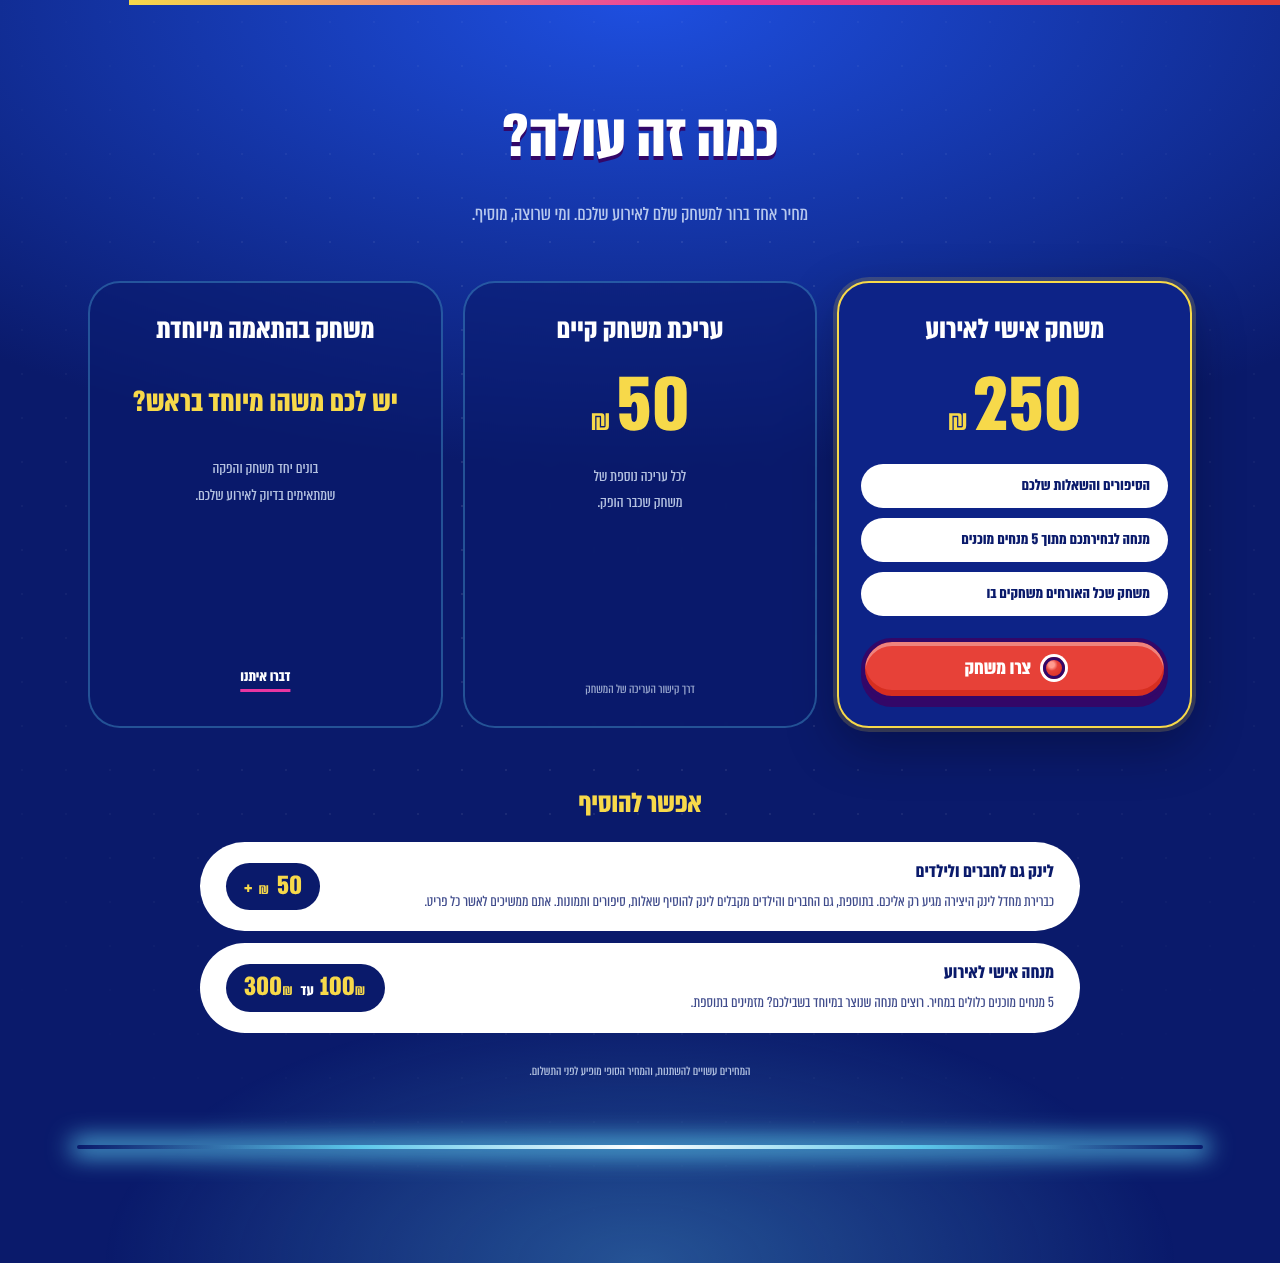
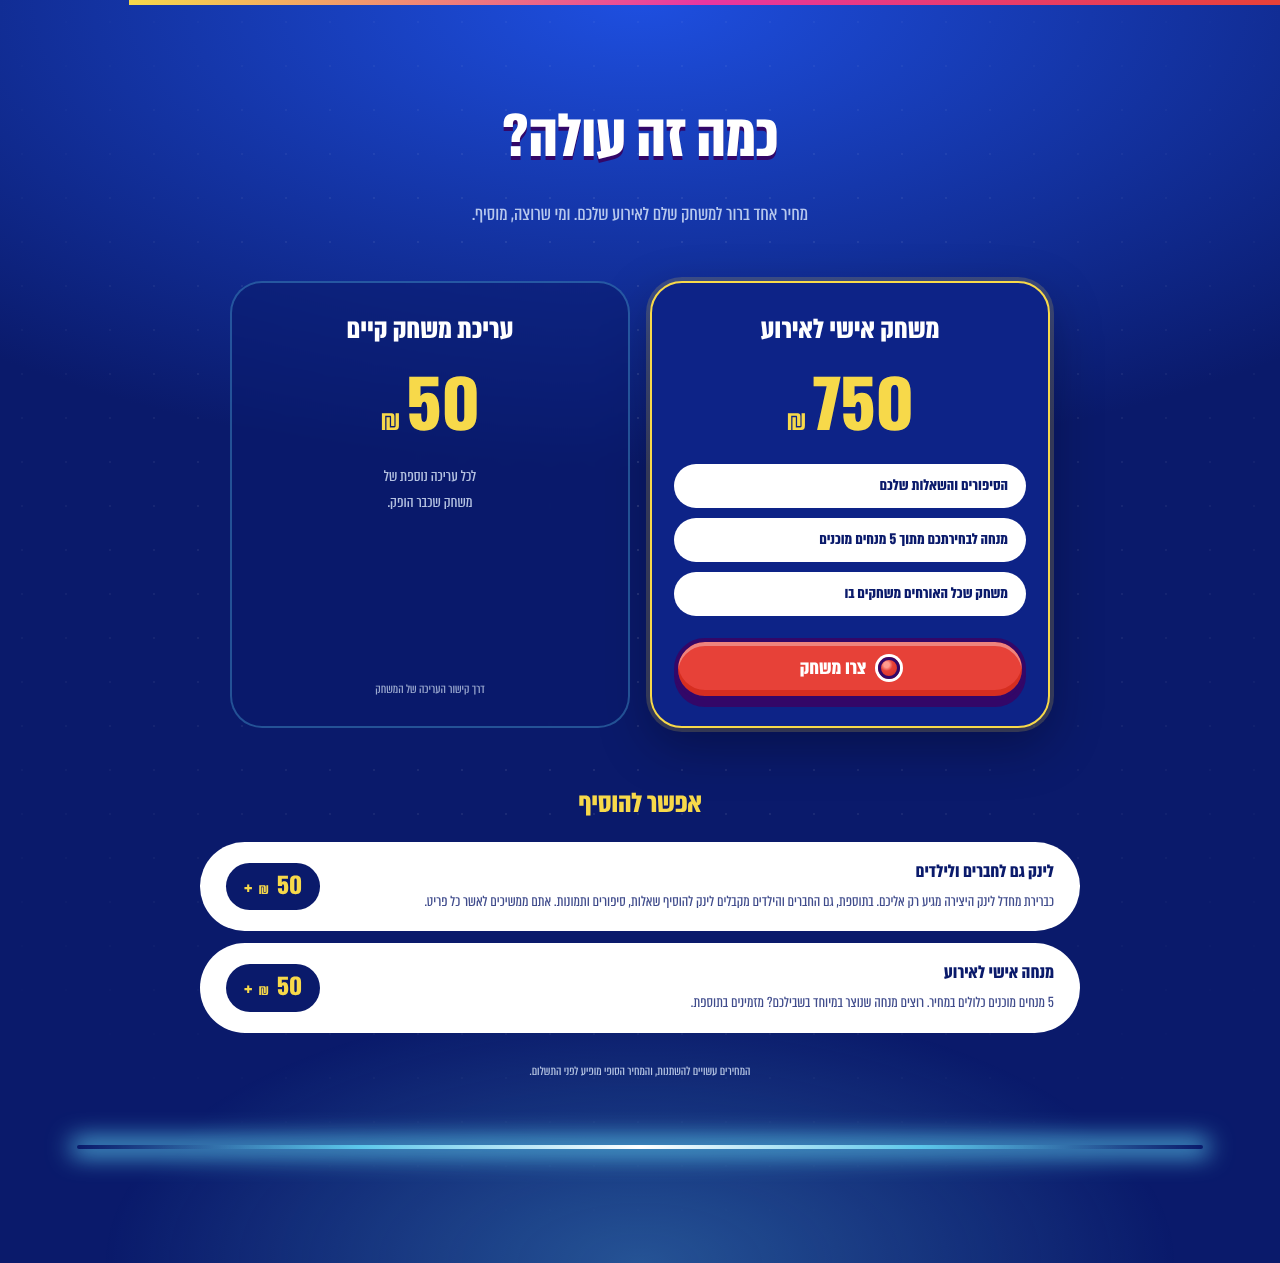
Pricing: personal game 750, every extra 50, remove custom card
Claude-Session: https://claude.ai/code/session_01H7Q5SWjfCNW93B5RSAXHUY

diff --git a/src/config/pricing.ts b/src/config/pricing.ts
@@ -3,8 +3,7 @@
  * Markup and copy never contain a price: copy.he.ts uses {placeholders} (see `fillPrices`),
  * the Pricing component reads the numbers below. Changing a price is a one-line edit here.
  *
- * "real" = taken from Ilan's page (https://tadam.base44.app/, checked 2026-11-16).
- * "proposal" = Tanya's idea, not confirmed yet.
+ * Set by Tanya on 2026-11-16: base 750, every extra (edit, contributor link, personal host) 50.
  */
 
 /**
@@ -16,15 +15,15 @@ export const CREATE_URL = "https://tadam.base44.app/create";
 export const PRICING = {
   currency: "₪",
 
-  /** Personal game for an event. real */
-  base: 250,
-  /** Each extra edit of an already produced game. real */
+  /** Personal game for an event. (Ilan's page shows 250.) */
+  base: 750, // TODO confirm
+  /** Each extra edit of an already produced game. */
   edit: 50,
 
   /** Add-on: friends/kids also get a contributor link (parents still approve every item). */
-  contributorLink: 50, // TODO confirm (proposal)
+  contributorLink: 50, // TODO confirm
   /** Add-on: a personal custom host made for the event (one of the ready-made hosts is included). */
-  personalHost: { from: 100, to: 300 }, // TODO confirm (proposal, range)
+  personalHost: 50, // TODO confirm
   /** Ready-made hosts included in the base price. */
   readyMadeHosts: 5, // TODO confirm
 };
@@ -37,11 +36,10 @@ const tokens: Record<string, string> = {
   base: money(PRICING.base),
   edit: money(PRICING.edit),
   contributorLink: money(PRICING.contributorLink),
-  hostFrom: money(PRICING.personalHost.from),
-  hostTo: money(PRICING.personalHost.to),
+  personalHost: money(PRICING.personalHost),
   readyMadeHosts: String(PRICING.readyMadeHosts),
 };
 
-/** Replaces {base}, {edit}, {contributorLink}, {hostFrom}, {hostTo}, {readyMadeHosts} in copy. */
+/** Replaces {base}, {edit}, {contributorLink}, {personalHost}, {readyMadeHosts} in copy. */
 export const fillPrices = (text: string) =>
   text.replace(/\{(\w+)\}/g, (m, k: string) => tokens[k] ?? m);

diff --git a/src/content/copy.he.ts b/src/content/copy.he.ts
@@ -146,12 +146,6 @@ export const COPY = {
         text: "לכל עריכה נוספת של משחק שכבר הופק.",
         note: "דרך קישור העריכה של המשחק",
       },
-      custom: {
-        name: "משחק בהתאמה מיוחדת",
-        headline: "יש לכם משהו מיוחד בראש?",
-        text: "בונים יחד משחק והפקה שמתאימים בדיוק לאירוע שלכם.",
-        cta: "דברו איתנו",
-      },
     },
     addonsTitle: "אפשר להוסיף",
     addons: {
@@ -162,7 +156,6 @@ export const COPY = {
       personalHost: {
         title: "מנחה אישי לאירוע",
         text: "{readyMadeHosts} מנחים מוכנים כלולים במחיר. רוצים מנחה שנוצר במיוחד בשבילכם? מזמינים בתוספת.",
-        rangeJoin: "עד",
       },
     },
     note: "המחירים עשויים להשתנות, והמחיר הסופי מופיע לפני התשלום.", // TODO confirm
@@ -171,7 +164,7 @@ export const COPY = {
       // TODO confirm
       {
         q: "כמה זה עולה?",
-        a: "משחק אישי לאירוע עולה {base}. עריכה נוספת של משחק שכבר הופק עולה {edit}. ואם יש לכם רעיון למשחק בהתאמה מיוחדת, דברו איתנו ונתמחר יחד.",
+        a: "משחק אישי לאירוע עולה {base}. עריכה נוספת של משחק שכבר הופק עולה {edit}.",
       },
       // TODO confirm
       {
@@ -186,7 +179,7 @@ export const COPY = {
       // TODO confirm
       {
         q: "אפשר מנחה אישי במקום אחד מהמוכנים?",
-        a: "כן. מנחה שנוצר במיוחד לאירוע שלכם עולה בין {hostFrom} ל־{hostTo}, לפי מה שתבחרו.",
+        a: "כן. מנחה שנוצר במיוחד לאירוע שלכם עולה {personalHost} בתוספת.",
       },
     ],
   },
